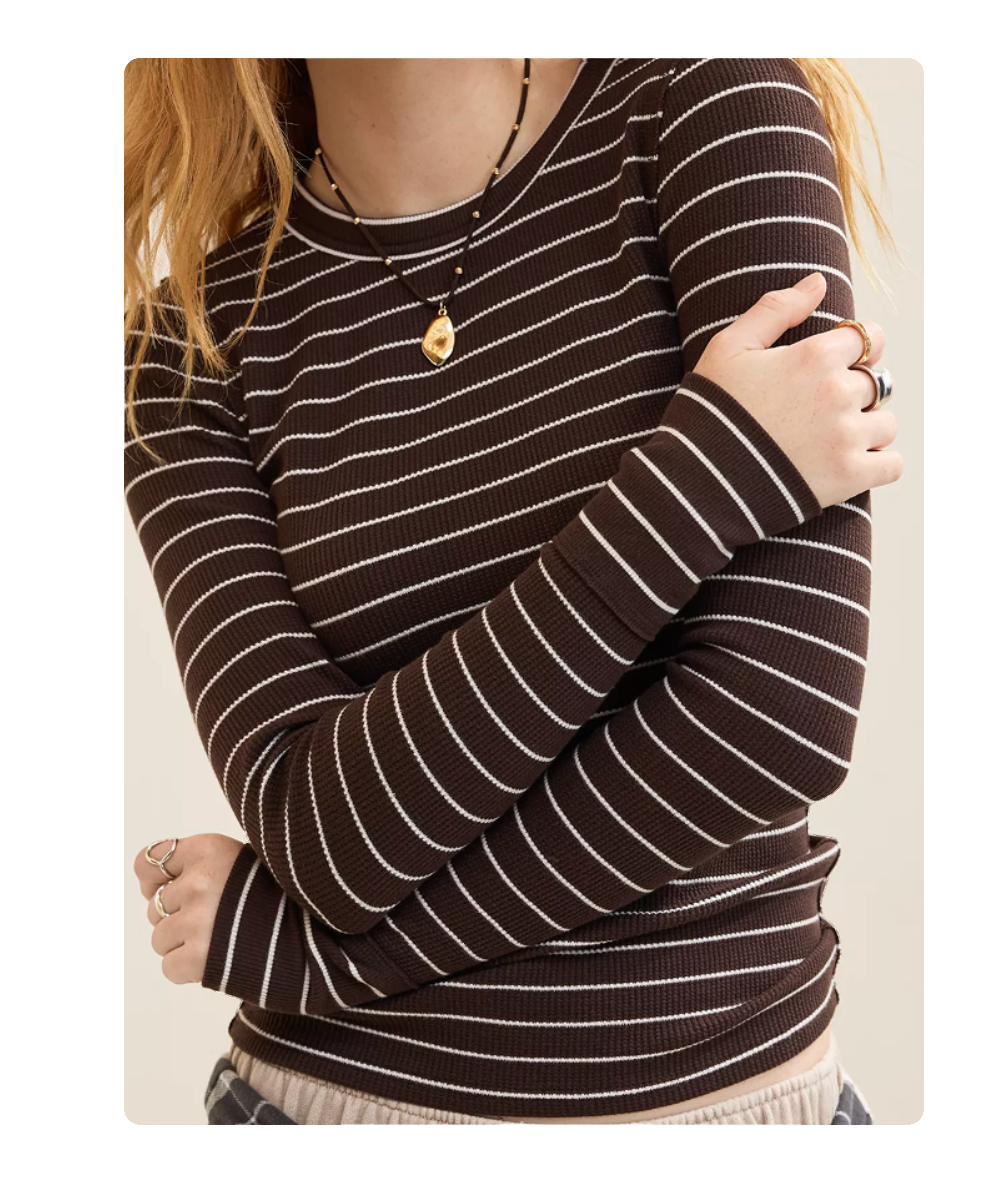
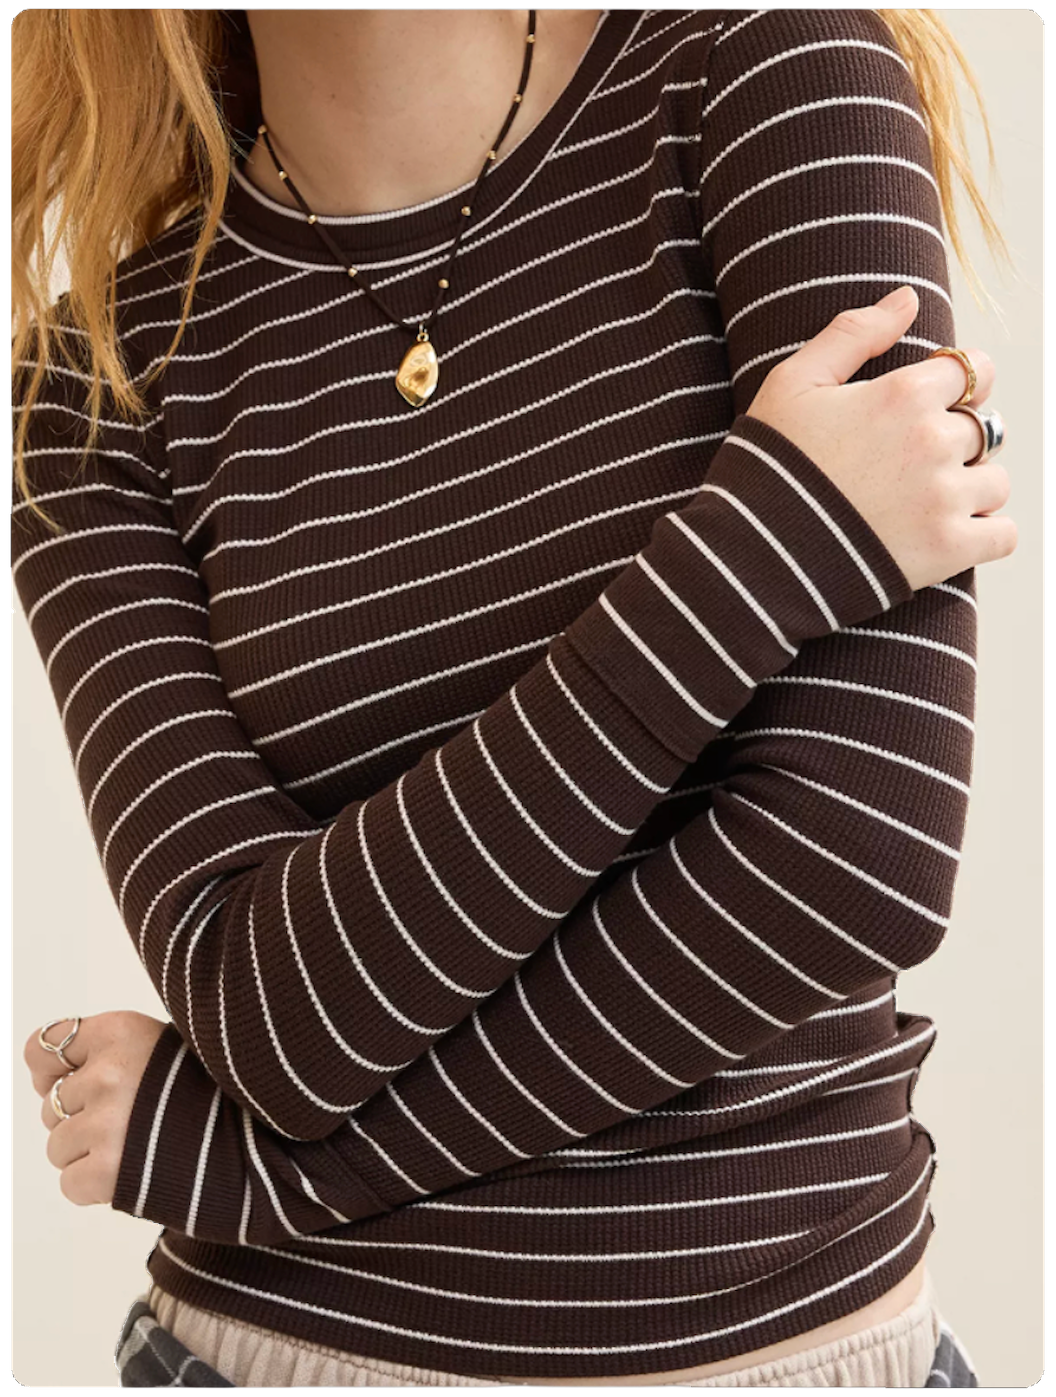
fix image front

diff --git a/casestudy/style.css b/casestudy/style.css
@@ -1,0 +1,110 @@
+nav {
+    background: #f7fff9;
+    padding: 1rem 1.5rem;
+    border-radius: 20px;
+    box-shadow: 0 4px 12px rgba(255, 182, 193, 0.25);
+    max-width: 900px;
+    margin: 20px auto;
+    display: flex;
+    justify-content: center;
+  }
+  
+  nav ul {
+    list-style: none;
+    display: flex;
+    flex-wrap: wrap;        /* allows wrapping on small screens */
+    justify-content: center; /* keeps it centered */
+    gap: 10px; 
+    padding: 0;
+    margin: 0;
+  }
+  
+  nav ul li a {
+    text-decoration: none;
+    font-size: 0.95rem;
+    padding: 10px 16px;
+    border-radius: 30px;
+    background: #25a0507d;
+    color: #062b0b;
+    transition: all 0.25s ease;
+    box-shadow: 0 2px 6px rgba(255, 182, 193, 0.35);
+    white-space: nowrap;     /* prevents awkward line breaks inside words */
+  }
+  
+  nav ul li a:hover {
+    background: #067a2c;
+    color: white;
+    transform: translateY(-2px);
+    box-shadow: 0 4px 10px rgba(160, 255, 184, 0.45);
+  }
+
+  .hero img {
+    width: 100%;
+    display: block;
+  }
+
+body {
+    width: 70%;
+    margin: 0 auto;               
+    background: white;
+    padding: 3rem;
+    border-radius: 0.5rem;
+    box-shadow: 0 4px 6px -1px rgba(0, 0, 0, 0.1);
+  }
+  
+ h1 {
+    font-size: 2rem;
+    margin-bottom: 1rem;
+    color: #171717;
+  }
+  
+h3 {
+    font-size: 1.25rem;
+    margin-top: 1.5rem;
+    margin-bottom: 0.75rem;
+    color: #262626;
+  }
+
+  
+ p {
+    margin-bottom: 0.5rem;
+    color: #404040;
+    line-height: 1.6;
+  }
+  
+ul {
+    margin-left: 1.5rem;
+    margin-bottom: 1rem;
+  }
+  
+li {
+    margin-bottom: 0.25rem;
+    color: #404040;
+    line-height: 1.6;
+  }
+
+
+  
+.button-link {
+    display: inline-block;
+    padding: 0.5rem 1rem;
+    background-color: #171717;
+    color: white;
+    text-decoration: none;
+    border-radius: 0.25rem;
+    margin: 1rem 0;
+    transition: background-color 0.2s;
+  }
+
+  .solution {
+    display: flex;
+    flex-wrap: wrap;
+    align-items: flex-start;   
+    justify-content: center;
+  }
+  
+  .solution img {
+    width: 250px;         
+    height: auto;
+    flex: 0 0 auto;           
+  }

diff --git a/casestudy/index.html b/casestudy/index.html
@@ -8,19 +8,22 @@
 <body>
   <nav>
     <ul>
-        <li><a href="index.html">Home</a></li>
-        <li><a href="alpha/index.html">Alpha Description</a></li>
-        <li><a href="alpha/build/index.html">Alpha Build</a></li>
-        <li><a href="beta/index.html">Beta Description</a></li>
-        <li><a href="beta/">Beta Build</a></li>
-      </ul>
+      <li><a href="index.html">Home</a></li>
+      <li><a href="alpha/index.html">Alpha Description</a></li>
+      <li><a href="alpha/build/index.html">Alpha Build</a></li>
+      <li><a href="beta/index.html">Beta Description</a></li>
+      <li><a href="beta/build/index.html">Beta Build</a></li>
+      <li><a href="final/index.html">Final Description</a></li>
+      <li><a href="final/build/index.html">Final Build</a></li>
+      <li><a href="casestudy/index.html">Case Study</a></li>
+
+    </ul>
       
   </nav>
-  <div class="text">
+
     <h1>IDM 241 Case Study </h1>
-  </div>
-  <div>
-    <img src="241-caseStudy.png" alt="hero image">
+  <div class="hero">
+    <img src="images/241-caseStudy.png" alt="hero image">
   </div>
 
   <div>
@@ -47,8 +50,9 @@
     </ul>
   </div>
   <h2>Process & Insight</h2>
-  <div class="solution">
+ 
     <h2>Solution</h2>
+  <div class="solution">
     <img src="images/front.png" alt="Final Design 1">
     <img src="images/hover.png" alt="Final Design 2">
     <img src="images/heart hover.png" alt="Final Design 3">
